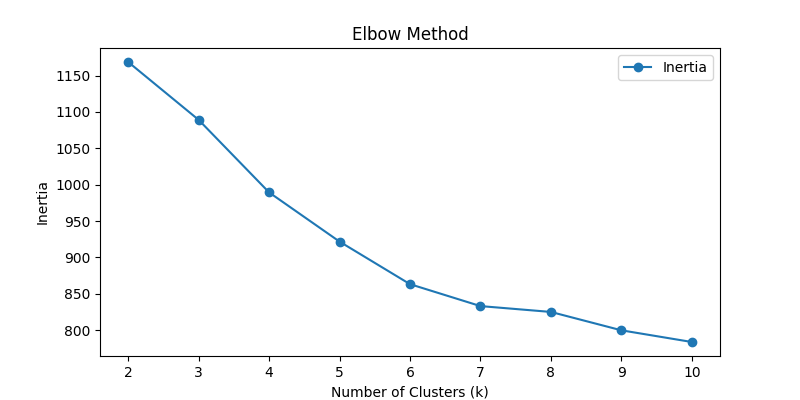
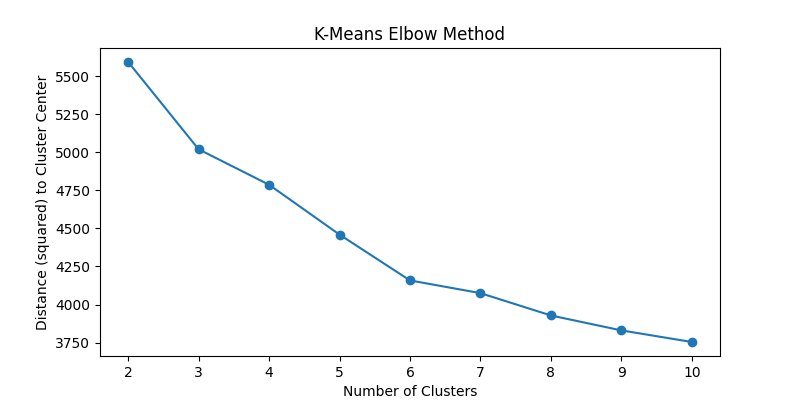
updated k-means

diff --git a/n/test.py b/n/test.py
@@ -19,8 +19,8 @@ import sklearn
 # read dataset and check
 df = pd.read_csv("full_data_flightdelay.csv.xz", compression='xz')
 
-# Take a random sample of 1000 rows
-df = df.sample(n=1000, random_state=42) # use random_state for reproducibility
+# Take a random sample of n rows
+df = df.sample(n=5000, random_state=42) # use random_state for reproducibility
 
 ##########################
 ## INITIAL DATA EXPLORATION
@@ -90,9 +90,9 @@ df_standardize = pd.DataFrame(df_standardize, columns=df_clustering.columns)
 df_normalize = pd.DataFrame(df_normalize, columns=df_clustering.columns )
 
 # # Check results
-print(f"Original number of features standardize: {df_standardize.shape[1]}")
-print(f"Original number of features normalized: {df_normalize.shape[1]}")
-print(f"Reduced number of features after PCA: {pca.n_components_}")
+# print(f"Original number of features standardize: {df_standardize.shape[1]}")
+# print(f"Original number of features normalized: {df_normalize.shape[1]}")
+# print(f"Reduced number of features after PCA: {pca.n_components_}")
 
 # print(df.head())
 # print(df_standardize.head())
@@ -115,101 +115,49 @@ print(f"Reduced number of features after PCA: {pca.n_components_}")
 #######################################
 # 4. Clustering
 
-# KMEANS
+# KMEANS with Elbow Method
+# km = KMeans(n_clusters=2, random_state=42)
+# df_normalize['cluster'] = km.fit_predict(df_normalize)
+# print(df_normalize.head())
+# print(df_normalize.cluster.value_counts())
+
+# Scale data (sd from the mean)
+# for col in df.columns:
+#     avg = df[col].mean()
+#     sd = df[col].std()
+#     df[col] = df[col].apply(lambda x: (x-avg)/sd)
+
 sil_scores = []
 inertia = []
 k_range = range(2, 11)
 
-# Fit K-Means for different K values and compute silhouette score
+# Fit K-Means for different K values
 for k in k_range:
     kmeans = KMeans(n_clusters=k, random_state=42)
     kmeans.fit(df_normalize)
     inertia.append(kmeans.inertia_)
     sil_scores.append(silhouette_score(df_normalize, kmeans.labels_))
 
-# Plot Silhouette Score vs. K values
+# silhouette_results = pd.DataFrame(sil_scores, columns=['silhouette_scores'])
+# inertia_results = pd.DataFrame(inertia, columns=['inertia'])
+
+# Plot inertia (Elbow method suggests k=6)
 plt.figure(figsize=(8, 4))
-plt.plot(k_range, sil_scores, marker='o', color='g', label='Silhouette Score')
+plt.plot(k_range, inertia, marker='o', label='Inertia')
+plt.xlabel("Number of Clusters")
+plt.ylabel("Distance (squared) to Cluster Center")
+plt.title("K-Means Elbow Method")
+plt.savefig('inertia.png')
+
+# Plot Silhouette Score (Silhouette Score suggests k=3)
+plt.figure(figsize=(8, 4))
+plt.plot(k_range, sil_scores, marker='o', label='Silhouette Score')
 plt.title('Silhouette Score for Different K')
 plt.xlabel('Number of Clusters (K)')
 plt.ylabel('Silhouette Score')
 plt.xticks(k_range)
 plt.savefig('silh.png')
 
-# Plot inertia
-plt.figure(figsize=(8, 4))
-plt.plot(k_range, inertia, marker='o', label='Inertia')
-plt.xlabel('Number of Clusters (k)')
-plt.ylabel('Inertia')
-plt.title('Elbow Method')
-plt.legend()
-plt.savefig("inertia.png")
-
-# DBSCAN
-
-# # Parameter Estimation
-# nearest_neighbors = NearestNeighbors(n_neighbors=50)
-# neighbors_fit = nearest_neighbors.fit(df_normalize)
-# distances, indices = neighbors_fit.kneighbors(df_normalize)
-
-# # Sort distances for the k-th nearest neighbor
-# distances = np.sort(distances, axis=0)
-# distances = distances[:,1]
-# plt.figure(figsize=(8, 4))
-# plt.plot(distances)
-# plt.title('k-NN Distance Plot')
-# plt.xlabel('Points sorted by distance to k-th nearest neighbor')
-# plt.ylabel(f'50-NN Distance')
-# plt.savefig("knn.png")
-
-# # Test various min_samples values
-# min_samples_values = range(3, 50, 5)  # Adjust the step size based on your needs
-# eps_values = np.linspace(0.1, 1.0, 10)
-
-# # Variables to store the best results
-# best_eps = None
-# best_min_samples = None
-# best_score = -1  # Start with the lowest possible silhouette score
-# best_labels = None  # To save the labels of the best clustering
-
-# for min_samples in min_samples_values:
-#     for eps in eps_values:
-#         dbscan = DBSCAN(eps=eps, min_samples=min_samples)
-#         labels = dbscan.fit_predict(df_normalize)
-        
-#         # Ignore cases where all points are noise
-#         if len(set(labels)) <= 1:
-#             continue
-        
-#         sil_score = silhouette_score(df_normalize, labels)
-
-#         # Check if this combination is better than the current best
-#         if sil_score > best_score:
-#             best_eps = eps
-#             best_min_samples = min_samples
-#             best_score = sil_score
-#             best_labels = labels  # Save the best labels
-
-#         # print(f"min_samples={min_samples}, eps={eps}, silhouette_score={sil_score}")
-
-# # Print the best combination
-# print(f"Best eps: {best_eps}")
-# print(f"Best min_samples: {best_min_samples}")
-# print(f"Best silhouette score: {best_score}")
-
-# dbscan = DBSCAN(eps=1.0, min_samples=13)
-# dbscan_labels = dbscan.fit_predict(df_normalize)
-
-# # Check unique clusters
-# print("Number of clusters (excluding noise):", len(set(dbscan_labels)) - (1 if -1 in dbscan_labels else 0))
-# print("Noise points:", sum(dbscan_labels == -1))
-
-# unique_labels = set(dbscan_labels) - {-1}  # Exclude noise points (-1)
-# if len(unique_labels) > 1:
-#     dbscan_sil_score = silhouette_score(df_normalize, dbscan_labels)
-#     print(f"DBSCAN Silhouette Score: {dbscan_sil_score}")
-# else:
-#     print("Silhouette Score cannot be calculated: Only one cluster found.")
 
 def visualize_cluster(x, y, clustering, filename="scatter_plot.png"):
     plt.figure(figsize=(8, 6))
@@ -238,20 +186,12 @@ reduced_data_pca = reduce_dimensions(data, method="pca")  # 2D PCA
 reduced_data_tsne = reduce_dimensions(data, method="tsne")  # 2D t-SNE
 
 # Clustering: KMeans
-kmeans = KMeans(n_clusters=2, random_state=42)
+kmeans = KMeans(n_clusters=6, random_state=42)
 kmeans_labels = kmeans.fit_predict(data)
 
 # Visualize KMeans Results
-visualize_cluster(reduced_data_pca[:, 0], reduced_data_pca[:, 1], kmeans_labels, "kmeans_pca.png")
-visualize_cluster(reduced_data_tsne[:, 0], reduced_data_tsne[:, 1], kmeans_labels, "kmeans_tsne.png")
-
-# Clustering: DBSCAN
-dbscan = DBSCAN(eps=1.0, min_samples=13)
-dbscan_labels = dbscan.fit_predict(data)
-
-# Visualize DBSCAN Results
-visualize_cluster(reduced_data_pca[:, 0], reduced_data_pca[:, 1], dbscan_labels, "dbscan_pca.png")
-visualize_cluster(reduced_data_tsne[:, 0], reduced_data_tsne[:, 1], dbscan_labels, "dbscan_tsne.png")
+visualize_cluster(reduced_data_pca[:, 0], reduced_data_pca[:, 1], kmeans_labels, "6-kmeans_pca.png")
+visualize_cluster(reduced_data_tsne[:, 0], reduced_data_tsne[:, 1], kmeans_labels, "6-kmeans_tsne.png")
 
 
 # Reserve train.csv and test.csv for Benchmarking.
